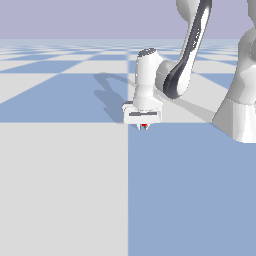
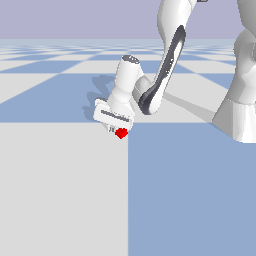
added LSTM

Changed region(s): [[0.3125, 0.0, 0.8438, 0.5625], [0.9062, 0.0, 1.0, 0.25], [0.9688, 0.1562, 1.0, 0.1875]]

diff --git a/network.py b/network.py
@@ -5,8 +5,10 @@ from torch.utils.data import DataLoader, Dataset
 from torchvision.io import read_image
 import matplotlib.pyplot as plt
 import numpy as np
+from tqdm import tqdm
 
 from config import MODEL_PATH, BATCH_SIZE, EPOCH, STARTING_EPOCH, TRAIN_MODEL_MORE, DEVICE, IMAGES_PATH
+
 
 class Network(nn.Module):
     def __init__(self):
@@ -20,8 +22,8 @@ class Network(nn.Module):
         self.conv7 = nn.Conv2d(256, 256, kernel_size=(3, 3), stride=2, padding=1)
         # self.conv8 = nn.Conv2d(256, 256, kernel_size=(3, 3), stride=2, padding=1)
         self.lstm = nn.LSTM(input_size=1031, hidden_size=128, num_layers=1, batch_first=True)
-        self.fc1 = nn.Linear(1031, 256)
-        self.fc2 = nn.Linear(256, 12)  # 7 velocities + 2 gripper action + 3 cube positions
+        # self.fc1 = nn.Linear(1031, 256)
+        self.fc2 = nn.Linear(128, 15)  # 7 velocities + 2 gripper action + 3 cube positions + 3 end effector positions
 
     def forward(self, x, positions):
         x = torch.relu(self.conv1(x))
@@ -36,15 +38,13 @@ class Network(nn.Module):
         batch_size, height, width, channels = x.size()
         x = x.view(batch_size, channels * height * width)  # Reshape for LSTM
 
-        x = torch.concat((x, positions), dim = 1)
+        x = torch.concat((x, positions), dim=1)
 
         lstm_out, _ = self.lstm(x)
-        print(lstm_out.shape)
-        # print(hidden[-1].shape)
-        # hidden = hidden[-1]
+
         # x = torch.relu(self.fc1(x))
         # return self.fc2(x)
-        return self.fc2(lstm_out) # Taking the last time step output of LSTM
+        return self.fc2(lstm_out)  # Taking the last time step output of LSTM
 
 
 class CustomImageDataset(Dataset):
@@ -52,7 +52,6 @@ class CustomImageDataset(Dataset):
         self.labels = torch.load(label_file)
         self.image_path = image_path
         self.device = device
-        print(self.labels)
 
     def __len__(self):
         return len(self.labels.keys())
@@ -73,7 +72,8 @@ def calculate_loss(criterion, outputs, labels):
     loss_1 = criterion(outputs[:, :7], labels[:, :7])
     loss_2 = criterion(outputs[:, 7:9], labels[:, 7:9])
     loss_3 = criterion(outputs[:, 9:12], labels[:, 9:12])
-    return loss_1 + loss_2 + loss_3
+    loss_4 = criterion(outputs[:, 12:15], labels[:, 12:15])
+    return loss_1 + loss_2 + loss_3 + loss_4
 
 
 def train():
@@ -87,19 +87,17 @@ def train():
         model.load_state_dict(torch.load(MODEL_PATH + '_' + str(STARTING_EPOCH) + '.pth', map_location=DEVICE))
         model.train()
         starting_epoch = STARTING_EPOCH
-    lb = torch.load('sample_labels')
-    print(lb)
-    dataset = CustomImageDataset('sample_labels', IMAGES_PATH, device)
-    print(len(dataset))
-    dataloader = DataLoader(dataset, batch_size=BATCH_SIZE, shuffle=True, num_workers=0)
 
+    dataset = CustomImageDataset('sample_labels', IMAGES_PATH, device)
+    dataloader = DataLoader(dataset, batch_size=BATCH_SIZE, shuffle=True, num_workers=0)
+    print(len(dataset))
 
     # Define loss function and optimizer
     criterion = nn.MSELoss()
     optimizer = optim.Adam(model.parameters(), lr=0.0001)
 
     # Training loop
-    num_epochs = 15
+    num_epochs = 50
 
     epoch_losses = []
     batch_losses = []
@@ -107,37 +105,38 @@ def train():
     fig, ax = plt.subplots()
     ax.set(xlabel='Epoch', ylabel='Loss', title='Loss Curve for epochs')
     plt.yscale('log')
+    with tqdm(total=num_epochs * len(dataloader)) as pbar:
+        for epoch in tqdm(range(num_epochs), leave=False):
+            for i, data in tqdm(enumerate(dataloader, 0), leave=False):
+                inputs, positions, labels = data
 
-    for epoch in range(num_epochs):
-        for i, data in enumerate(dataloader, 0):
-            inputs, positions, labels = data
+                # Zero the parameter gradients
+                optimizer.zero_grad()
+                # Forward pass
+                outputs = model(inputs, positions)
 
-            # Zero the parameter gradients
-            optimizer.zero_grad()
-            # Forward pass
-            outputs = model(inputs, positions)
+                # Calculate loss
+                loss = calculate_loss(criterion, outputs, labels)
 
-            # Calculate loss
-            loss = calculate_loss(criterion, outputs, labels)
+                # Backward pass and optimize
+                loss.backward()
+                optimizer.step()
 
-            # Backward pass and optimize
-            loss.backward()
-            optimizer.step()
+                batch_losses.append(loss.item())
 
-            batch_losses.append(loss.item())
+                pbar.set_description('[%d, %5d] loss: %.8f' %
+                                     (starting_epoch + epoch + 1, i * BATCH_SIZE + 1, np.mean(batch_losses[-10:])))
+                pbar.update(1)
 
-            if i % 10 == 9:  # Print every 10 batches
-                print('[%d, %5d] loss: %.8f' %
-                      (starting_epoch + epoch + 1, i * BATCH_SIZE + 1, np.mean(batch_losses[-10:])))
-
-        epoch_losses.append(np.mean(batch_losses))
-        batch_losses = []  # Reset batch losses
-        torch.save(model.state_dict(), MODEL_PATH + f'_{starting_epoch + epoch + 1}.pth')
-        torch.save(epoch_losses, MODEL_PATH + 'epoch_losses')
+            epoch_losses.append(np.mean(batch_losses))
+            batch_losses = []  # Reset batch losses
+            torch.save(model.state_dict(), MODEL_PATH + f'_{starting_epoch + epoch + 1}.pth')
+            torch.save(epoch_losses, MODEL_PATH + 'epoch_losses')
 
     plt.plot(range(1, num_epochs + 1), epoch_losses, label='Epoch Loss')
     fig.savefig('loss_256_50k-lstm.png')
     plt.show(block=True)
+
 
 if __name__ == "__main__":
     train()

diff --git a/panda_sim_grasp.py b/panda_sim_grasp.py
@@ -130,8 +130,8 @@ class PandaSim(object):
         if self.text_id != -1:
             self.bullet_client.removeUserDebugItem(self.text_id)
 
-        self.text_id = self.bullet_client.addUserDebugPoints([cube], [[0, 0, 1]], pointSize=100, lifeTime=0.1)
-        self.text_id = self.bullet_client.addUserDebugPoints([end_effector], [[0, 1, 0.5]], pointSize=100, lifeTime=0.1)
+        self.text_id = self.bullet_client.addUserDebugPoints([cube], [[0, 0, 1]], pointSize=50, lifeTime=0.1)
+        self.text_id = self.bullet_client.addUserDebugPoints([end_effector], [[0, 1, 0.5]], pointSize=20, lifeTime=0.1)
 
     def step_network(self):
         if len(self.images) < 4:
@@ -151,7 +151,7 @@ class PandaSim(object):
             output = (self.model(input_tensor, positions.unsqueeze(0)).squeeze()).tolist()
 
             if SHOW_AUX_POS:
-                self.show_cube_pos(output[-3:], state[-3:])
+                self.show_cube_pos(output[-3:], output[-6:-3])
 
             self.finger_target = GRIPPER_OPEN if output[7] < output[8] else GRIPPER_CLOSE
             for i in range(PANDA_DOFS):

diff --git a/config.py b/config.py
@@ -1,7 +1,7 @@
-MODEL_PATH = 'models/model-256px-50k-lstm'
-IMAGES_PATH = 'dataset_low_variance/image_'
+MODEL_PATH = 'models/model-256px-50k'
+IMAGES_PATH = 'dataset_low/image_'
 
-EPOCH = 29
+EPOCH = 10
 SHOW_AUX_POS = 0
 
 DEVICE = 'mps'
@@ -11,7 +11,7 @@ BATCH_SIZE = 128
 TRAIN_MODEL_MORE = 0
 STARTING_EPOCH = 0
 
-GATHER_DATA = True
+GATHER_DATA = False
 
 IMAGE_SIZE = 256
 NO_SAMPLES = 50000

diff --git a/create_dataset.py b/create_dataset.py
@@ -62,7 +62,8 @@ while sample < NO_SAMPLES:
         if sample % 1000 == 0:
             torch.save(sample_dict, 'sample_labels')
     else:
-        print(panda.get_state())
+        state, positions = panda.get_state()
+        print(state)
     i += 1
     panda.bullet_client.stopStateLogging(logId)
 
